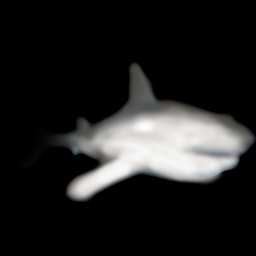
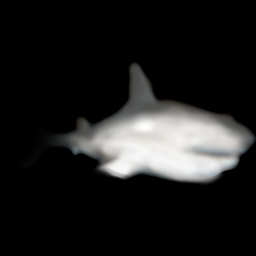
Scale the terrain and sea and enable shadows underwater

Changed region(s): [[0.25, 0.6562, 0.5, 0.8125]]

diff --git a/script/models/terrain.js b/script/models/terrain.js
@@ -3,7 +3,7 @@ class Terrain extends Drawable {
 
   constructor() {
     super();
-    this.terrainSize = 48;
+    this.terrainSize = 64;
     this.terrainLOD = 64;
     this.buffers = null;
     this.textureRepeat = 40;
@@ -214,6 +214,15 @@ class Terrain extends Drawable {
       }
     }
 
+    terrainTextureCoordinates[0] = 30;
+    terrainTextureCoordinates[1] = 30;
+    terrainTextureCoordinates[2] = 0;
+    terrainTextureCoordinates[3] = 30;
+    terrainTextureCoordinates[4] = 0;
+    terrainTextureCoordinates[5] = 0;
+    terrainTextureCoordinates[6] = 30;
+    terrainTextureCoordinates[7] = 0;
+
     gl.bufferData(gl.ARRAY_BUFFER, new Float32Array(terrainTextureCoordinates),
                   gl.STATIC_DRAW);
 
@@ -318,7 +327,8 @@ class Terrain extends Drawable {
       let i = 0, j = 0, offset = 0, offsetX = 0, offsetY1 = 0, offsetY2 = 0, offsetY3 = 0, offsetY4 = 0, offsetZ = 0, one = 0, index = 0;
       let terrainNormals = [];
       let lookupOffset = 0;
-      let heightOffset = 4.0;
+      let heightOffset = -2;
+      let heightScale = 6;
       let heightMapDimensions = 512;
       let lastTreePosition = 0;
 
@@ -346,19 +356,19 @@ class Terrain extends Drawable {
 
           lookupOffset = offset;
           this.terrainPositions[offset++] = offsetX - 6;
-          this.terrainPositions[offset++] = offsetY1 * heightOffset;
+          this.terrainPositions[offset++] = offsetY1 * heightScale + heightOffset;
           this.terrainPositions[offset++] = offsetZ;
 
           this.terrainPositions[offset++] = offsetX + unit - 6;
-          this.terrainPositions[offset++] = offsetY2 * heightOffset;
+          this.terrainPositions[offset++] = offsetY2 * heightScale + heightOffset;
           this.terrainPositions[offset++] = offsetZ;
 
           this.terrainPositions[offset++] = offsetX + unit - 6;
-          this.terrainPositions[offset++] = offsetY3 * heightOffset;
+          this.terrainPositions[offset++] = offsetY3 * heightScale + heightOffset;
           this.terrainPositions[offset++] = offsetZ + unit;
 
           this.terrainPositions[offset++] = offsetX - 6;
-          this.terrainPositions[offset++] = offsetY4 * heightOffset;
+          this.terrainPositions[offset++] = offsetY4 * heightScale + heightOffset;
           this.terrainPositions[offset++] = offsetZ + unit;
 
           // Simple slope.
@@ -412,6 +422,22 @@ class Terrain extends Drawable {
           }
         }
       }
+
+      this.terrainPositions[0] = -450;
+      this.terrainPositions[1] = -2.5;
+      this.terrainPositions[2] = -450;
+      
+      this.terrainPositions[3] = 450;
+      this.terrainPositions[4] = -2.5;
+      this.terrainPositions[5] = -450;
+      
+      this.terrainPositions[6] = 450;
+      this.terrainPositions[7] = -2.5;
+      this.terrainPositions[8] = 450;
+      
+      this.terrainPositions[9] = -450;
+      this.terrainPositions[10] = -2.5;
+      this.terrainPositions[11] = 450;
       
       gl.bufferData(gl.ARRAY_BUFFER, new Float32Array(this.terrainPositions),
                     gl.STATIC_DRAW);

diff --git a/script/models/projectedmodel.js b/script/models/projectedmodel.js
@@ -10,6 +10,7 @@ class ProjectedModel extends Drawable {
     this.angle = 0;
     this.globalAngle = 0;
     this.pivotOffset = 0;
+    this.centerOffset = 0;
     this.clipLimit = 0.1;
     this.clampLimit = 0.2;
     this.buffers = null;
@@ -332,7 +333,7 @@ class ProjectedModel extends Drawable {
               }
             } else {
               needsSplat.push(offset);
-              this.positions[offset++] = -2*this.size;
+              this.positions[offset++] = -2*this.size - this.centerOffset;
               this.positions[offset++] = 0;
               this.positions[offset++] = 0;
             }
@@ -350,7 +351,7 @@ class ProjectedModel extends Drawable {
               }
             } else {
               needsSplat.push(offset);
-              this.positions[offset++] = -2*this.size;
+              this.positions[offset++] = -2*this.size - this.centerOffset;
               this.positions[offset++] = 0;
               this.positions[offset++] = 0;
             }
@@ -368,7 +369,7 @@ class ProjectedModel extends Drawable {
               }
             } else {
               needsSplat.push(offset);
-              this.positions[offset++] = -2*this.size;
+              this.positions[offset++] = -2*this.size - this.centerOffset;
               this.positions[offset++] = 0;
               this.positions[offset++] = 0;
             }
@@ -386,16 +387,18 @@ class ProjectedModel extends Drawable {
               }
             } else {
               needsSplat.push(offset);
-              this.positions[offset++] = -2*this.size;
+              this.positions[offset++] = -2*this.size - this.centerOffset;
               this.positions[offset++] = 0;
               this.positions[offset++] = 0;
             }
 
             if (nonZeroCandidate) {
-              for (splat of needsSplat) {
-                this.positions[splat] = this.positions[nonZeroCandidate];
-                this.positions[splat+1] = this.positions[nonZeroCandidate+1];
-                this.positions[splat+2] = 0;
+              if (needsSplat.length == 4) {
+                for (splat of needsSplat) {
+                  this.positions[splat] = this.positions[nonZeroCandidate];
+                  this.positions[splat+1] = this.positions[nonZeroCandidate+1];
+                  this.positions[splat+2] = 0;
+                }
               }
             }
 

diff --git a/script/models/sea.js b/script/models/sea.js
@@ -138,9 +138,9 @@ class Sea extends Drawable {
     const loopDelay3 = 0.3;
     absTime /= 30;
 
-    const animation = (Math.sin(absTime * loopDelay) + 1) / 48;
-    const animation2 = (Math.sin(absTime * loopDelay2) + 1) / 38;
-    const animation3 = (Math.sin(absTime * loopDelay3) + 1) / 28;
+    const animation = ((absTime * loopDelay) + 1) / 48;
+    const animation2 = ((absTime * loopDelay2) + 1) / 38;
+    const animation3 = ((absTime * loopDelay3) + 1) / 28;
     gl.bindBuffer(gl.ARRAY_BUFFER, textureCoordBuffer);
 
     let seaTextureCoordinates = [];
@@ -183,6 +183,8 @@ class Sea extends Drawable {
     // buffer into the vertexPosition attribute
     if (shadow) {
       gl.uniform1i(camera.isWater, 1);
+    } else {
+      return;
     }
 
     {

diff --git a/script/models/sharktail.js b/script/models/sharktail.js
@@ -6,9 +6,10 @@ class SharkTail extends ProjectedModel {
     this.size = 4;
     this.LOD = 63;
     this.fat = 0.8;
-    this.pivotOffset = -4;
+    this.pivotOffset = -2.5;
     this.clipLimit = 0.2;
-    this.clampLimit = 0.25;
+    this.clampLimit = 0.4;
+    this.centerOffset = -4;
     this.vertexCount = 6 * (this.LOD * this.LOD) * 2;
   }
 
@@ -32,7 +33,7 @@ class SharkTail extends ProjectedModel {
 
   setWaveRotation(gl, offset) {
 
-    let angle = Math.sin(offset * 0.2) / 10;
+    let angle = Math.sin(offset * 0.2) / 7;
     
     this.setPositionRotation(gl, this.x, this.y, this.z, angle);
   }

diff --git a/script/world.js b/script/world.js
@@ -46,8 +46,7 @@ function main() {
     terrain,
     dhufish,
     shark,
-    new Sea(2000, -2.3, 0),
-    new Sea(300, 0, 1),
+    new Sea(1000, 0, 1),
     cloud1,
     cloud2,
     cloud3,
@@ -69,7 +68,7 @@ function main() {
   cloud2.setPosition(gl, -100, 400, 1280);
   cloud3.setPosition(gl, -1280, 400, 100);
   cloud4.setPosition(gl, 1280, 400, -100);
-  shark.setPosition(gl, 5, -1, 76);
+  shark.setPosition(gl, 5, -0.5, 76);
   dhufish.setPosition(gl, 10, -1.8, 78);
 
   boat.setPositionRotation(gl, 0, 12, 70, 0);

diff --git a/script/models/sharktorso.js b/script/models/sharktorso.js
@@ -7,8 +7,9 @@ class SharkTorso extends ProjectedModel {
     this.LOD = 63;
     this.fat = 0.8;
     this.clipLimit = 0.2;
-    this.clampLimit = 0.25;
-    this.pivotOffset = -4;
+    this.clampLimit = 0.4;
+    this.pivotOffset = -2.5;
+    this.centerOffset = -1;
     this.vertexCount = 6 * (this.LOD * this.LOD) * 2;
   }
 

diff --git a/script/controls.js b/script/controls.js
@@ -54,9 +54,11 @@ class Controls {
         case 87:
           this.actionForward = true;
           break;
+        case 83:
         case 40:
           this.actionBackward = true;
           break;
+        case 65:
         case 37:
           this.actionLeft = true;
           break;

diff --git a/script/models/foam.js b/script/models/foam.js
@@ -255,6 +255,8 @@ class Foam extends Drawable {
       // buffer into the vertexPosition attribute
       if (shadow) {
         gl.uniform1i(camera.isWater, 0);
+      } else {
+        return;
       }
 
       {
